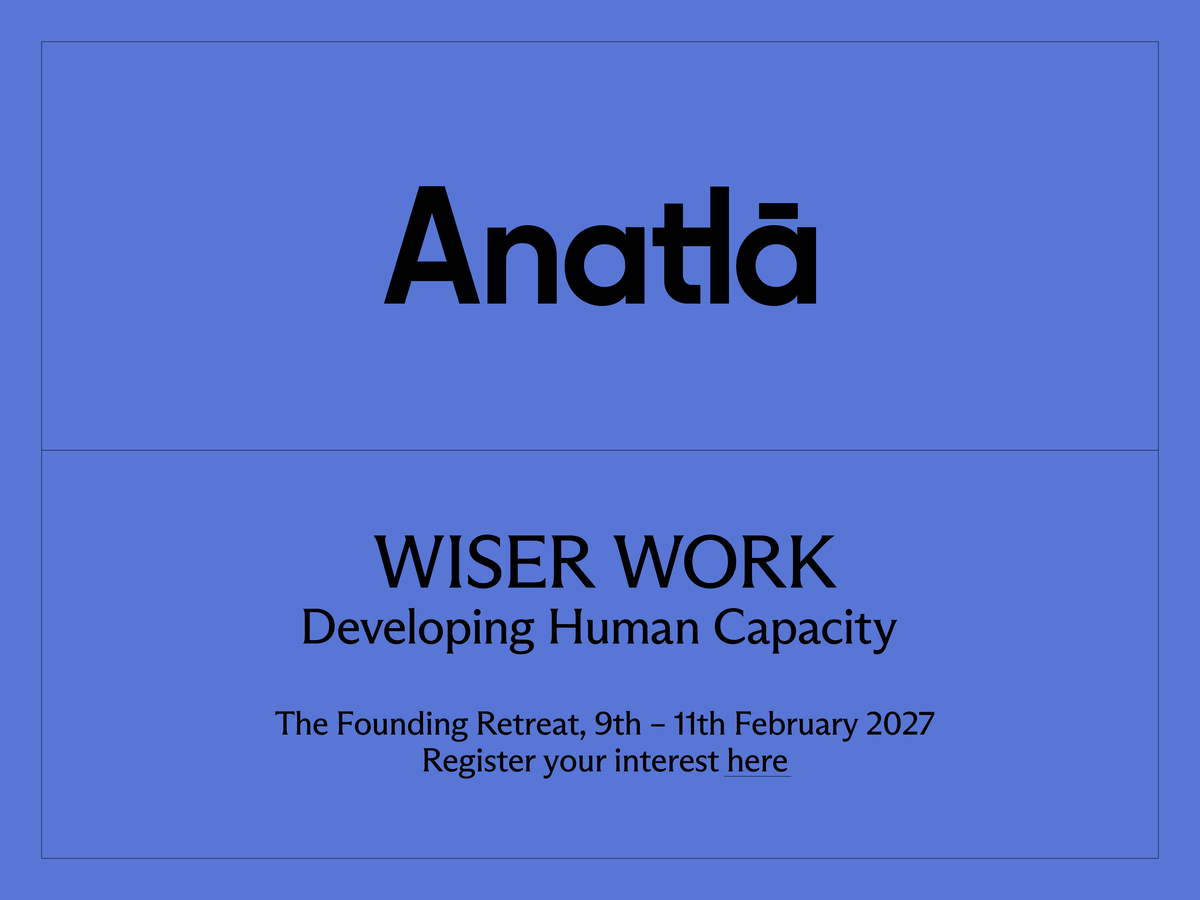
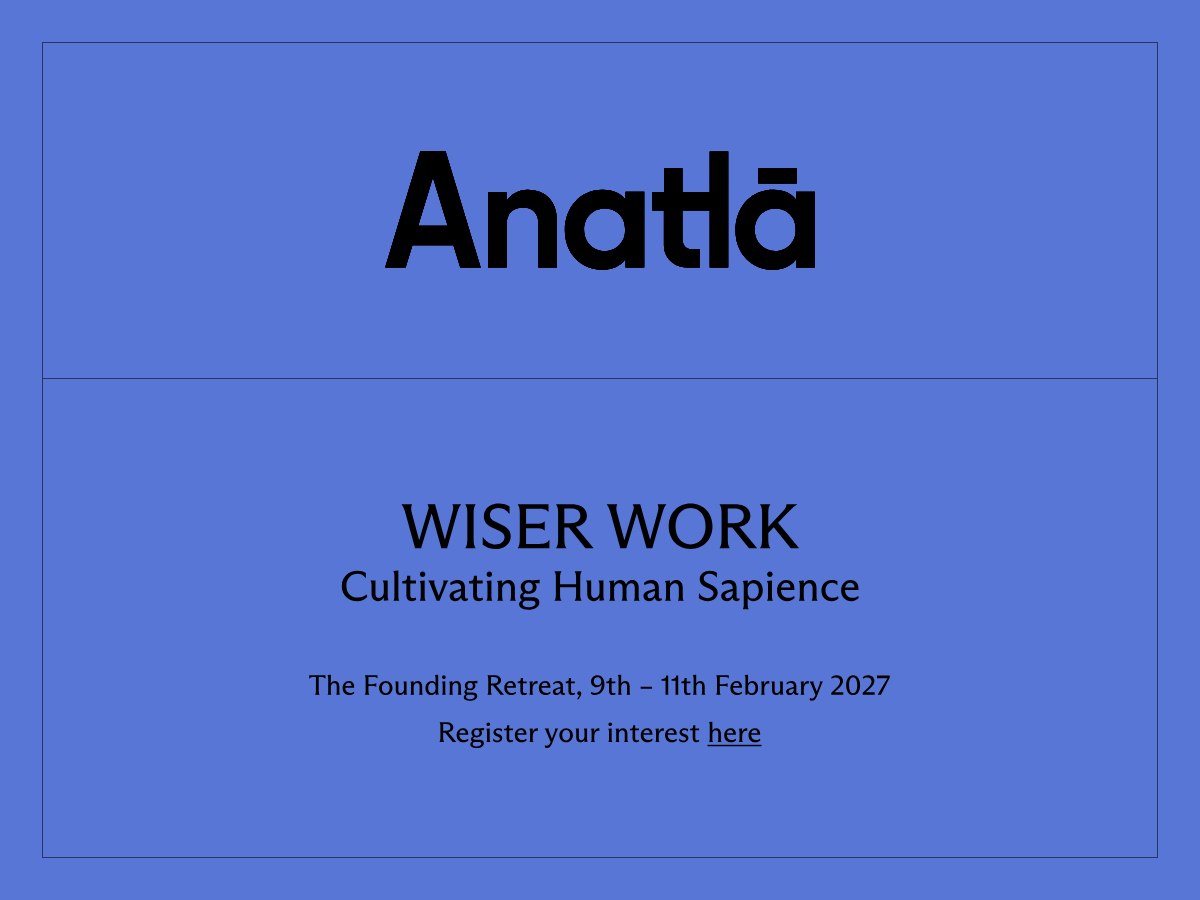
Strapline: Cultivating Human Sapience under Wiser Work
Regenerates the share image from the page so it matches.

Changed region(s): [[0.2467, 0.56, 0.74, 0.7156], [0.2158, 0.7467, 0.7708, 0.8711], [0.3083, 0.1556, 0.6783, 0.3422]]

diff --git a/index.html b/index.html
@@ -4,11 +4,11 @@
   <meta charset="utf-8">
   <meta name="viewport" content="width=device-width, initial-scale=1">
   <title>Anatla — Wiser Work</title>
-  <meta name="description" content="Anatla. Wiser Work: developing human capacity. The Founding Retreat, 9th–11th February 2027. Register your interest.">
+  <meta name="description" content="Anatla. Wiser Work: cultivating human sapience. The Founding Retreat, 9th–11th February 2027. Register your interest.">
   <link rel="canonical" href="https://anatla.com/">
   <link rel="icon" href="assets/favicon.svg" type="image/svg+xml">
   <meta property="og:title" content="Anatla — Wiser Work">
-  <meta property="og:description" content="Developing Human Capacity. The Founding Retreat, 9th–11th February 2027.">
+  <meta property="og:description" content="Cultivating Human Sapience. The Founding Retreat, 9th–11th February 2027.">
   <meta property="og:image" content="https://anatla.com/assets/og.png">
   <meta property="og:url" content="https://anatla.com/">
   <meta name="twitter:card" content="summary_large_image">
@@ -24,12 +24,12 @@
     <section class="panel panel--copy">
       <!-- Visually hidden copy for search engines and screen readers; the visible text is SVG artwork -->
       <div class="sr-only">
-        <p>Wiser Work. Developing Human Capacity.</p>
+        <p>Wiser Work. Cultivating Human Sapience.</p>
         <p>The Founding Retreat, 9th – 11th February 2027. Register your interest at shona@anatla.com.</p>
       </div>
       <!-- text:start (generated by tools/render_text.py) -->
       <svg class="t t--headline" viewBox="-20 -984 6318 1273" role="img" aria-label="WISER WORK" fill="currentColor"><path d="M70 -539 218 0H313L477 -546H482L633 0H724L878 -543C896 -607 911 -650 945 -691V-695H809V-691C828 -651 821 -611 803 -544L692 -141H687L533 -695H416L434 -641L285 -135H280L171 -542C154 -606 148 -647 168 -691V-695H5V-691C36 -649 52 -605 70 -539ZM1044 -541V-154C1044 -80 1038 -40 1013 -4V0H1174V-4C1149 -40 1143 -80 1143 -154V-541C1143 -614 1149 -656 1174 -691V-695H1013V-691C1038 -656 1044 -614 1044 -541ZM1493 12C1626 12 1730 -71 1730 -191C1730 -277 1679 -330 1587 -372L1489 -417C1424 -446 1401 -481 1401 -525C1401 -597 1461 -637 1539 -637C1604 -637 1667 -607 1706 -545H1711V-660C1672 -686 1609 -707 1539 -707C1402 -707 1304 -618 1304 -507C1304 -430 1347 -366 1442 -323L1539 -280C1603 -251 1632 -222 1632 -173C1632 -99 1566 -59 1491 -59C1416 -59 1346 -96 1292 -174H1287V-55C1343 -12 1418 12 1493 12ZM1873 -541V-154C1873 -80 1867 -40 1842 -4V0H2341V-130H2335C2308 -82 2261 -69 2183 -69H1972V-318H2124C2203 -318 2238 -308 2262 -281H2267V-423H2262C2237 -397 2203 -386 2124 -386H1972V-626H2169C2256 -626 2297 -613 2322 -578H2327V-695H1842V-691C1867 -656 1873 -614 1873 -541ZM2479 -541V-154C2479 -80 2473 -40 2448 -4V0H2608V-4C2583 -40 2577 -80 2577 -154V-328H2648L2912 0H3038V-2L2759 -338C2869 -358 2934 -427 2934 -514C2934 -622 2843 -695 2691 -695H2448V-691C2473 -656 2479 -614 2479 -541ZM2673 -396H2577V-628H2674C2776 -628 2830 -589 2830 -513C2830 -441 2776 -396 2673 -396ZM3314 -539 3462 0H3557L3721 -546H3726L3877 0H3968L4122 -543C4140 -607 4155 -650 4189 -691V-695H4053V-691C4072 -651 4065 -611 4047 -544L3936 -141H3931L3777 -695H3660L3678 -641L3529 -135H3524L3415 -542C3398 -606 3392 -647 3412 -691V-695H3249V-691C3280 -649 3296 -605 3314 -539ZM4573 12C4777 12 4919 -140 4919 -347C4919 -554 4778 -707 4573 -707C4370 -707 4227 -554 4227 -347C4227 -140 4370 12 4573 12ZM4573 -60C4431 -60 4335 -176 4335 -347C4335 -518 4431 -636 4573 -636C4715 -636 4810 -518 4810 -347C4810 -176 4715 -60 4573 -60ZM5063 -541V-154C5063 -80 5057 -40 5032 -4V0H5192V-4C5167 -40 5161 -80 5161 -154V-328H5232L5496 0H5622V-2L5343 -338C5453 -358 5518 -427 5518 -514C5518 -622 5427 -695 5275 -695H5032V-691C5057 -656 5063 -614 5063 -541ZM5257 -396H5161V-628H5258C5360 -628 5414 -589 5414 -513C5414 -441 5360 -396 5257 -396ZM5703 -541V-154C5703 -80 5697 -40 5672 -4V0H5832V-4C5807 -40 5801 -80 5801 -154V-241L5888 -332L6156 0H6286V-3L5955 -403L6098 -552C6157 -613 6197 -654 6257 -691V-695H6088V-691C6088 -656 6071 -625 6023 -574L5806 -343H5801V-541C5801 -614 5807 -656 5832 -691V-695H5672V-691C5697 -656 5703 -614 5703 -541Z"/></svg>
-      <svg class="t t--strap" viewBox="-20 -984 12461 1273" role="img" aria-label="Developing Human Capacity" fill="currentColor"><path d="M98 -541V-154C98 -80 92 -40 67 -4V0H321C546 0 695 -140 695 -348C695 -555 546 -695 321 -695H67V-691C92 -656 98 -614 98 -541ZM298 -67H197V-628H298C472 -628 587 -536 587 -348C587 -160 472 -67 298 -67ZM1024 12C1094 12 1151 -14 1198 -62L1187 -111C1143 -81 1101 -66 1048 -66C947 -66 878 -131 874 -250H1192V-288C1192 -417 1112 -486 1003 -486C876 -486 782 -381 782 -240C782 -86 887 12 1024 12ZM878 -309C890 -382 931 -425 997 -425C1057 -425 1097 -382 1100 -309ZM1299 -354 1437 0H1507L1647 -346C1670 -404 1684 -439 1713 -470V-474H1591V-470C1604 -438 1597 -402 1576 -347L1489 -122H1484L1399 -352C1380 -403 1373 -437 1389 -470V-474H1240V-470C1267 -437 1280 -403 1299 -354ZM1990 12C2060 12 2117 -14 2164 -62L2153 -111C2109 -81 2067 -66 2014 -66C1913 -66 1844 -131 1840 -250H2158V-288C2158 -417 2078 -486 1969 -486C1842 -486 1748 -381 1748 -240C1748 -86 1853 12 1990 12ZM1844 -309C1856 -382 1897 -425 1963 -425C2023 -425 2063 -382 2066 -309ZM2284 -587V-117C2284 -60 2281 -31 2263 -4V0H2398V-4C2380 -31 2377 -60 2377 -117V-713H2374L2259 -700V-695C2278 -669 2284 -642 2284 -587ZM2736 12C2872 12 2973 -92 2973 -238C2973 -384 2872 -486 2736 -486C2599 -486 2497 -383 2497 -238C2497 -92 2599 12 2736 12ZM2736 -55C2650 -55 2597 -125 2597 -238C2597 -349 2651 -419 2736 -419C2818 -419 2873 -351 2873 -238C2873 -124 2818 -55 2736 -55ZM3094 -351V83C3094 140 3091 169 3073 196V200H3212V196C3189 168 3187 140 3187 83V-50H3191C3222 -8 3272 12 3323 12C3443 12 3544 -87 3544 -244C3544 -392 3452 -486 3340 -486C3273 -486 3223 -453 3191 -403H3187V-477H3184L3069 -464V-459C3088 -433 3094 -406 3094 -351ZM3311 -50C3236 -50 3187 -107 3187 -213V-268C3187 -353 3244 -414 3314 -414C3396 -414 3449 -344 3449 -234C3449 -124 3393 -50 3311 -50ZM3760 -117V-477H3757L3642 -464V-459C3661 -433 3667 -406 3667 -351V-117C3667 -60 3664 -31 3646 -4V0H3781V-4C3763 -31 3760 -60 3760 -117ZM3711 -558C3747 -558 3776 -587 3776 -624C3776 -659 3747 -689 3711 -689C3675 -689 3646 -659 3646 -624C3646 -587 3675 -558 3711 -558ZM3920 -351V-117C3920 -60 3917 -31 3899 -4V0H4034V-4C4016 -31 4013 -60 4013 -117V-276C4013 -360 4073 -413 4132 -413C4185 -413 4222 -376 4222 -303V-117C4222 -60 4219 -31 4201 -4V0H4336V-4C4317 -32 4314 -60 4314 -117V-305C4314 -425 4246 -486 4157 -486C4100 -486 4053 -458 4018 -404H4013V-477H4010L3895 -464V-459C3914 -433 3920 -406 3920 -351ZM4628 214C4781 214 4893 145 4893 41C4893 -38 4828 -79 4721 -79H4573C4533 -79 4514 -96 4514 -119C4514 -144 4533 -161 4562 -174C4586 -166 4613 -161 4642 -161C4751 -161 4827 -230 4827 -323C4827 -361 4810 -392 4791 -408V-412H4899V-494H4896L4711 -475C4688 -483 4664 -486 4642 -486C4530 -486 4452 -420 4452 -323C4452 -273 4474 -230 4511 -201V-198C4460 -171 4437 -134 4437 -94C4437 -63 4454 -34 4485 -16V-13C4440 13 4413 48 4413 87C4413 157 4486 214 4628 214ZM4631 155C4544 155 4496 121 4496 71C4496 39 4521 14 4553 0H4712C4772 0 4801 19 4801 60C4801 120 4719 155 4631 155ZM4641 -219C4585 -219 4544 -258 4544 -323C4544 -389 4585 -429 4641 -429C4697 -429 4738 -389 4738 -323C4738 -258 4697 -219 4641 -219ZM5759 -541V-387H5381V-541C5381 -614 5387 -656 5412 -691V-695H5251V-691C5276 -656 5282 -614 5282 -541V-154C5282 -80 5276 -40 5251 -4V0H5412V-4C5387 -40 5381 -80 5381 -154V-318H5759V-154C5759 -80 5753 -40 5728 -4V0H5889V-4C5864 -40 5857 -80 5857 -154V-541C5857 -614 5864 -656 5889 -691V-695H5728V-691C5753 -656 5759 -614 5759 -541ZM6171 12C6230 12 6278 -19 6308 -69H6313V3H6315L6426 -11V-16C6408 -42 6405 -73 6405 -129V-474H6289V-470C6307 -443 6313 -410 6313 -354V-196C6313 -114 6256 -61 6198 -61C6149 -61 6116 -93 6116 -162V-474H6000V-470C6018 -442 6023 -409 6023 -354V-161C6023 -46 6090 12 6171 12ZM6565 -351V-117C6565 -60 6562 -31 6544 -4V0H6679V-4C6661 -31 6657 -60 6657 -117V-278C6657 -358 6714 -413 6772 -413C6829 -413 6857 -376 6857 -307V-117C6857 -60 6854 -31 6836 -4V0H6971V-4C6952 -32 6949 -60 6949 -117V-277C6949 -358 7004 -413 7061 -413C7113 -413 7145 -379 7145 -306V-118C7145 -60 7142 -31 7124 -4V0H7259V-4C7241 -31 7238 -60 7238 -118V-312C7238 -424 7172 -486 7088 -486C7027 -486 6975 -453 6941 -391H6936C6913 -454 6863 -486 6804 -486C6745 -486 6695 -458 6663 -403H6657V-477H6654L6540 -464V-459C6559 -433 6565 -406 6565 -351ZM7478 12C7533 12 7583 -14 7618 -70H7623V-68C7626 -20 7664 11 7711 11C7740 11 7763 4 7786 -13L7779 -59C7769 -55 7759 -52 7748 -52C7727 -52 7713 -64 7713 -94V-307C7713 -432 7637 -486 7537 -486C7471 -486 7407 -457 7362 -419L7373 -368C7418 -396 7466 -414 7513 -414C7574 -414 7622 -385 7622 -310V-279L7522 -253C7419 -226 7350 -189 7350 -108C7350 -37 7407 12 7478 12ZM7510 -58C7474 -58 7445 -80 7445 -119C7445 -162 7483 -181 7548 -202L7622 -226V-186C7622 -105 7560 -58 7510 -58ZM7884 -351V-117C7884 -60 7881 -31 7863 -4V0H7998V-4C7980 -31 7977 -60 7977 -117V-276C7977 -360 8037 -413 8096 -413C8149 -413 8186 -376 8186 -303V-117C8186 -60 8183 -31 8165 -4V0H8300V-4C8281 -32 8278 -60 8278 -117V-305C8278 -425 8210 -486 8121 -486C8064 -486 8017 -458 7982 -404H7977V-477H7974L7859 -464V-459C7878 -433 7884 -406 7884 -351ZM9021 12C9120 12 9197 -24 9262 -89L9250 -144C9184 -97 9118 -72 9043 -72C8890 -72 8769 -170 8769 -355C8769 -527 8886 -637 9032 -637C9108 -637 9179 -601 9224 -538H9229V-656C9173 -688 9108 -707 9026 -707C8839 -707 8661 -576 8661 -346C8661 -115 8831 12 9021 12ZM9453 12C9508 12 9558 -14 9593 -70H9598V-68C9601 -20 9639 11 9686 11C9715 11 9738 4 9761 -13L9754 -59C9744 -55 9734 -52 9723 -52C9702 -52 9688 -64 9688 -94V-307C9688 -432 9612 -486 9512 -486C9446 -486 9382 -457 9337 -419L9348 -368C9393 -396 9441 -414 9488 -414C9549 -414 9597 -385 9597 -310V-279L9497 -253C9394 -226 9325 -189 9325 -108C9325 -37 9382 12 9453 12ZM9485 -58C9449 -58 9420 -80 9420 -119C9420 -162 9458 -181 9523 -202L9597 -226V-186C9597 -105 9535 -58 9485 -58ZM9858 -351V83C9858 140 9855 169 9837 196V200H9976V196C9953 168 9951 140 9951 83V-50H9955C9986 -8 10036 12 10087 12C10207 12 10308 -87 10308 -244C10308 -392 10216 -486 10104 -486C10037 -486 9987 -453 9955 -403H9951V-477H9948L9833 -464V-459C9852 -433 9858 -406 9858 -351ZM10075 -50C10000 -50 9951 -107 9951 -213V-268C9951 -353 10008 -414 10078 -414C10160 -414 10213 -344 10213 -234C10213 -124 10157 -50 10075 -50ZM10515 12C10570 12 10620 -14 10655 -70H10660V-68C10663 -20 10701 11 10748 11C10777 11 10800 4 10823 -13L10816 -59C10806 -55 10796 -52 10785 -52C10764 -52 10750 -64 10750 -94V-307C10750 -432 10674 -486 10574 -486C10508 -486 10444 -457 10399 -419L10410 -368C10455 -396 10503 -414 10550 -414C10611 -414 10659 -385 10659 -310V-279L10559 -253C10456 -226 10387 -189 10387 -108C10387 -37 10444 12 10515 12ZM10547 -58C10511 -58 10482 -80 10482 -119C10482 -162 10520 -181 10585 -202L10659 -226V-186C10659 -105 10597 -58 10547 -58ZM11120 12C11182 12 11237 -13 11282 -57L11271 -105C11231 -80 11190 -66 11143 -66C11043 -66 10973 -134 10973 -247C10973 -350 11035 -422 11132 -422C11179 -422 11224 -397 11249 -363H11254V-456C11218 -475 11171 -486 11125 -486C10979 -486 10877 -379 10877 -235C10877 -94 10975 12 11120 12ZM11482 -117V-477H11479L11364 -464V-459C11383 -433 11389 -406 11389 -351V-117C11389 -60 11386 -31 11368 -4V0H11503V-4C11485 -31 11482 -60 11482 -117ZM11433 -558C11469 -558 11498 -587 11498 -624C11498 -659 11469 -689 11433 -689C11397 -689 11368 -659 11368 -624C11368 -587 11397 -558 11433 -558ZM11803 12C11841 12 11876 -1 11904 -22L11894 -72C11872 -61 11852 -57 11830 -57C11786 -57 11764 -80 11764 -131V-408H11898V-474H11764V-591H11690C11686 -485 11671 -468 11576 -466V-408H11672V-128C11672 -32 11726 12 11803 12ZM12012 212C12077 212 12143 182 12190 61L12350 -348C12371 -402 12386 -438 12415 -470V-474H12294V-470C12310 -438 12298 -399 12279 -350L12191 -121H12186L12098 -350C12078 -402 12065 -437 12082 -470V-474H11932V-470C11961 -437 11977 -401 11999 -348L12144 5L12134 31C12102 108 12061 129 12008 129C11985 129 11963 125 11943 117V197C11962 207 11986 212 12012 212Z"/></svg>
+      <svg class="t t--strap" viewBox="-20 -984 12334 1273" role="img" aria-label="Cultivating Human Sapience" fill="currentColor"><path d="M406 12C505 12 582 -24 647 -89L635 -144C569 -97 503 -72 428 -72C275 -72 154 -170 154 -355C154 -527 271 -637 417 -637C493 -637 564 -601 609 -538H614V-656C558 -688 493 -707 411 -707C224 -707 46 -576 46 -346C46 -115 216 12 406 12ZM896 12C955 12 1003 -19 1033 -69H1038V3H1040L1151 -11V-16C1133 -42 1130 -73 1130 -129V-474H1014V-470C1032 -443 1038 -410 1038 -354V-196C1038 -114 981 -61 923 -61C874 -61 841 -93 841 -162V-474H725V-470C743 -442 748 -409 748 -354V-161C748 -46 815 12 896 12ZM1288 -587V-117C1288 -60 1285 -31 1267 -4V0H1402V-4C1384 -31 1381 -60 1381 -117V-713H1378L1263 -700V-695C1282 -669 1288 -642 1288 -587ZM1702 12C1740 12 1775 -1 1803 -22L1793 -72C1771 -61 1751 -57 1729 -57C1685 -57 1663 -80 1663 -131V-408H1797V-474H1663V-591H1589C1585 -485 1570 -468 1475 -466V-408H1571V-128C1571 -32 1625 12 1702 12ZM2003 -117V-477H2000L1885 -464V-459C1904 -433 1910 -406 1910 -351V-117C1910 -60 1907 -31 1889 -4V0H2024V-4C2006 -31 2003 -60 2003 -117ZM1954 -558C1990 -558 2019 -587 2019 -624C2019 -659 1990 -689 1954 -689C1918 -689 1889 -659 1889 -624C1889 -587 1918 -558 1954 -558ZM2148 -354 2286 0H2356L2496 -346C2519 -404 2533 -439 2562 -470V-474H2440V-470C2453 -438 2446 -402 2425 -347L2338 -122H2333L2248 -352C2229 -403 2222 -437 2238 -470V-474H2089V-470C2116 -437 2129 -403 2148 -354ZM2720 12C2775 12 2825 -14 2860 -70H2865V-68C2868 -20 2906 11 2953 11C2982 11 3005 4 3028 -13L3021 -59C3011 -55 3001 -52 2990 -52C2969 -52 2955 -64 2955 -94V-307C2955 -432 2879 -486 2779 -486C2713 -486 2649 -457 2604 -419L2615 -368C2660 -396 2708 -414 2755 -414C2816 -414 2864 -385 2864 -310V-279L2764 -253C2661 -226 2592 -189 2592 -108C2592 -37 2649 12 2720 12ZM2752 -58C2716 -58 2687 -80 2687 -119C2687 -162 2725 -181 2790 -202L2864 -226V-186C2864 -105 2802 -58 2752 -58ZM3278 12C3316 12 3351 -1 3379 -22L3369 -72C3347 -61 3327 -57 3305 -57C3261 -57 3239 -80 3239 -131V-408H3373V-474H3239V-591H3165C3161 -485 3146 -468 3051 -466V-408H3147V-128C3147 -32 3201 12 3278 12ZM3579 -117V-477H3576L3461 -464V-459C3480 -433 3486 -406 3486 -351V-117C3486 -60 3483 -31 3465 -4V0H3600V-4C3582 -31 3579 -60 3579 -117ZM3530 -558C3566 -558 3595 -587 3595 -624C3595 -659 3566 -689 3530 -689C3494 -689 3465 -659 3465 -624C3465 -587 3494 -558 3530 -558ZM3739 -351V-117C3739 -60 3736 -31 3718 -4V0H3853V-4C3835 -31 3832 -60 3832 -117V-276C3832 -360 3892 -413 3951 -413C4004 -413 4041 -376 4041 -303V-117C4041 -60 4038 -31 4020 -4V0H4155V-4C4136 -32 4133 -60 4133 -117V-305C4133 -425 4065 -486 3976 -486C3919 -486 3872 -458 3837 -404H3832V-477H3829L3714 -464V-459C3733 -433 3739 -406 3739 -351ZM4447 214C4600 214 4712 145 4712 41C4712 -38 4647 -79 4540 -79H4392C4352 -79 4333 -96 4333 -119C4333 -144 4352 -161 4381 -174C4405 -166 4432 -161 4461 -161C4570 -161 4646 -230 4646 -323C4646 -361 4629 -392 4610 -408V-412H4718V-494H4715L4530 -475C4507 -483 4483 -486 4461 -486C4349 -486 4271 -420 4271 -323C4271 -273 4293 -230 4330 -201V-198C4279 -171 4256 -134 4256 -94C4256 -63 4273 -34 4304 -16V-13C4259 13 4232 48 4232 87C4232 157 4305 214 4447 214ZM4450 155C4363 155 4315 121 4315 71C4315 39 4340 14 4372 0H4531C4591 0 4620 19 4620 60C4620 120 4538 155 4450 155ZM4460 -219C4404 -219 4363 -258 4363 -323C4363 -389 4404 -429 4460 -429C4516 -429 4557 -389 4557 -323C4557 -258 4516 -219 4460 -219ZM5578 -541V-387H5200V-541C5200 -614 5206 -656 5231 -691V-695H5070V-691C5095 -656 5101 -614 5101 -541V-154C5101 -80 5095 -40 5070 -4V0H5231V-4C5206 -40 5200 -80 5200 -154V-318H5578V-154C5578 -80 5572 -40 5547 -4V0H5708V-4C5683 -40 5676 -80 5676 -154V-541C5676 -614 5683 -656 5708 -691V-695H5547V-691C5572 -656 5578 -614 5578 -541ZM5990 12C6049 12 6097 -19 6127 -69H6132V3H6134L6245 -11V-16C6227 -42 6224 -73 6224 -129V-474H6108V-470C6126 -443 6132 -410 6132 -354V-196C6132 -114 6075 -61 6017 -61C5968 -61 5935 -93 5935 -162V-474H5819V-470C5837 -442 5842 -409 5842 -354V-161C5842 -46 5909 12 5990 12ZM6384 -351V-117C6384 -60 6381 -31 6363 -4V0H6498V-4C6480 -31 6476 -60 6476 -117V-278C6476 -358 6533 -413 6591 -413C6648 -413 6676 -376 6676 -307V-117C6676 -60 6673 -31 6655 -4V0H6790V-4C6771 -32 6768 -60 6768 -117V-277C6768 -358 6823 -413 6880 -413C6932 -413 6964 -379 6964 -306V-118C6964 -60 6961 -31 6943 -4V0H7078V-4C7060 -31 7057 -60 7057 -118V-312C7057 -424 6991 -486 6907 -486C6846 -486 6794 -453 6760 -391H6755C6732 -454 6682 -486 6623 -486C6564 -486 6514 -458 6482 -403H6476V-477H6473L6359 -464V-459C6378 -433 6384 -406 6384 -351ZM7297 12C7352 12 7402 -14 7437 -70H7442V-68C7445 -20 7483 11 7530 11C7559 11 7582 4 7605 -13L7598 -59C7588 -55 7578 -52 7567 -52C7546 -52 7532 -64 7532 -94V-307C7532 -432 7456 -486 7356 -486C7290 -486 7226 -457 7181 -419L7192 -368C7237 -396 7285 -414 7332 -414C7393 -414 7441 -385 7441 -310V-279L7341 -253C7238 -226 7169 -189 7169 -108C7169 -37 7226 12 7297 12ZM7329 -58C7293 -58 7264 -80 7264 -119C7264 -162 7302 -181 7367 -202L7441 -226V-186C7441 -105 7379 -58 7329 -58ZM7703 -351V-117C7703 -60 7700 -31 7682 -4V0H7817V-4C7799 -31 7796 -60 7796 -117V-276C7796 -360 7856 -413 7915 -413C7968 -413 8005 -376 8005 -303V-117C8005 -60 8002 -31 7984 -4V0H8119V-4C8100 -32 8097 -60 8097 -117V-305C8097 -425 8029 -486 7940 -486C7883 -486 7836 -458 7801 -404H7796V-477H7793L7678 -464V-459C7697 -433 7703 -406 7703 -351ZM8686 12C8819 12 8923 -71 8923 -191C8923 -277 8872 -330 8780 -372L8682 -417C8617 -446 8594 -481 8594 -525C8594 -597 8654 -637 8732 -637C8797 -637 8860 -607 8899 -545H8904V-660C8865 -686 8802 -707 8732 -707C8595 -707 8497 -618 8497 -507C8497 -430 8540 -366 8635 -323L8732 -280C8796 -251 8825 -222 8825 -173C8825 -99 8759 -59 8684 -59C8609 -59 8539 -96 8485 -174H8480V-55C8536 -12 8611 12 8686 12ZM9133 12C9188 12 9238 -14 9273 -70H9278V-68C9281 -20 9319 11 9366 11C9395 11 9418 4 9441 -13L9434 -59C9424 -55 9414 -52 9403 -52C9382 -52 9368 -64 9368 -94V-307C9368 -432 9292 -486 9192 -486C9126 -486 9062 -457 9017 -419L9028 -368C9073 -396 9121 -414 9168 -414C9229 -414 9277 -385 9277 -310V-279L9177 -253C9074 -226 9005 -189 9005 -108C9005 -37 9062 12 9133 12ZM9165 -58C9129 -58 9100 -80 9100 -119C9100 -162 9138 -181 9203 -202L9277 -226V-186C9277 -105 9215 -58 9165 -58ZM9538 -351V83C9538 140 9535 169 9517 196V200H9656V196C9633 168 9631 140 9631 83V-50H9635C9666 -8 9716 12 9767 12C9887 12 9988 -87 9988 -244C9988 -392 9896 -486 9784 -486C9717 -486 9667 -453 9635 -403H9631V-477H9628L9513 -464V-459C9532 -433 9538 -406 9538 -351ZM9755 -50C9680 -50 9631 -107 9631 -213V-268C9631 -353 9688 -414 9758 -414C9840 -414 9893 -344 9893 -234C9893 -124 9837 -50 9755 -50ZM10204 -117V-477H10201L10086 -464V-459C10105 -433 10111 -406 10111 -351V-117C10111 -60 10108 -31 10090 -4V0H10225V-4C10207 -31 10204 -60 10204 -117ZM10155 -558C10191 -558 10220 -587 10220 -624C10220 -659 10191 -689 10155 -689C10119 -689 10090 -659 10090 -624C10090 -587 10119 -558 10155 -558ZM10566 12C10636 12 10693 -14 10740 -62L10729 -111C10685 -81 10643 -66 10590 -66C10489 -66 10420 -131 10416 -250H10734V-288C10734 -417 10654 -486 10545 -486C10418 -486 10324 -381 10324 -240C10324 -86 10429 12 10566 12ZM10420 -309C10432 -382 10473 -425 10539 -425C10599 -425 10639 -382 10642 -309ZM10862 -351V-117C10862 -60 10859 -31 10841 -4V0H10976V-4C10958 -31 10955 -60 10955 -117V-276C10955 -360 11015 -413 11074 -413C11127 -413 11164 -376 11164 -303V-117C11164 -60 11161 -31 11143 -4V0H11278V-4C11259 -32 11256 -60 11256 -117V-305C11256 -425 11188 -486 11099 -486C11042 -486 10995 -458 10960 -404H10955V-477H10952L10837 -464V-459C10856 -433 10862 -406 10862 -351ZM11615 12C11677 12 11732 -13 11777 -57L11766 -105C11726 -80 11685 -66 11638 -66C11538 -66 11468 -134 11468 -247C11468 -350 11530 -422 11627 -422C11674 -422 11719 -397 11744 -363H11749V-456C11713 -475 11666 -486 11620 -486C11474 -486 11372 -379 11372 -235C11372 -94 11470 12 11615 12ZM12079 12C12149 12 12206 -14 12253 -62L12242 -111C12198 -81 12156 -66 12103 -66C12002 -66 11933 -131 11929 -250H12247V-288C12247 -417 12167 -486 12058 -486C11931 -486 11837 -381 11837 -240C11837 -86 11942 12 12079 12ZM11933 -309C11945 -382 11986 -425 12052 -425C12112 -425 12152 -382 12155 -309Z"/></svg>
       <svg class="t t--details" viewBox="-20 -984 20657 1273" role="img" aria-label="The Founding Retreat, 9th – 11th February 2027" fill="currentColor"><path d="M258 -154C258 -80 251 -39 222 -4V0H392V-4C363 -39 356 -80 356 -154V-627H434C523 -627 567 -609 590 -569H595V-695H19V-569H25C48 -609 93 -627 181 -627H258ZM693 -587V-117C693 -60 690 -31 672 -4V0H807V-4C789 -31 786 -60 786 -117V-276C786 -360 846 -413 905 -413C958 -413 995 -376 995 -303V-117C995 -60 992 -31 974 -4V0H1109V-4C1090 -32 1087 -60 1087 -117V-305C1087 -425 1019 -486 930 -486C873 -486 826 -458 791 -404H786V-713H783L668 -700V-695C687 -669 693 -642 693 -587ZM1445 12C1515 12 1572 -14 1619 -62L1608 -111C1564 -81 1522 -66 1469 -66C1368 -66 1299 -131 1295 -250H1613V-288C1613 -417 1533 -486 1424 -486C1297 -486 1203 -381 1203 -240C1203 -86 1308 12 1445 12ZM1299 -309C1311 -382 1352 -425 1418 -425C1478 -425 1518 -382 1521 -309ZM2020 -541V-154C2020 -80 2014 -40 1989 -4V0H2154V-4C2125 -39 2119 -80 2119 -154V-308H2253C2332 -308 2372 -297 2390 -272H2396V-413H2390C2372 -387 2332 -376 2253 -376H2119V-626H2280C2367 -626 2413 -612 2433 -578H2438V-695H1989V-691C2014 -656 2020 -614 2020 -541ZM2734 12C2870 12 2971 -92 2971 -238C2971 -384 2870 -486 2734 -486C2597 -486 2495 -383 2495 -238C2495 -92 2597 12 2734 12ZM2734 -55C2648 -55 2595 -125 2595 -238C2595 -349 2649 -419 2734 -419C2816 -419 2871 -351 2871 -238C2871 -124 2816 -55 2734 -55ZM3235 12C3294 12 3342 -19 3372 -69H3377V3H3379L3490 -11V-16C3472 -42 3469 -73 3469 -129V-474H3353V-470C3371 -443 3377 -410 3377 -354V-196C3377 -114 3320 -61 3262 -61C3213 -61 3180 -93 3180 -162V-474H3064V-470C3082 -442 3087 -409 3087 -354V-161C3087 -46 3154 12 3235 12ZM3629 -351V-117C3629 -60 3626 -31 3608 -4V0H3743V-4C3725 -31 3722 -60 3722 -117V-276C3722 -360 3782 -413 3841 -413C3894 -413 3931 -376 3931 -303V-117C3931 -60 3928 -31 3910 -4V0H4045V-4C4026 -32 4023 -60 4023 -117V-305C4023 -425 3955 -486 3866 -486C3809 -486 3762 -458 3727 -404H3722V-477H3719L3604 -464V-459C3623 -433 3629 -406 3629 -351ZM4344 12C4405 12 4458 -16 4492 -71H4498V3H4501L4612 -11V-16C4593 -43 4590 -70 4590 -126V-713H4587L4472 -700V-695C4491 -669 4498 -642 4498 -587V-426H4492C4463 -463 4417 -486 4361 -486C4238 -486 4140 -383 4140 -231C4140 -79 4234 12 4344 12ZM4371 -60C4291 -60 4235 -128 4235 -241C4235 -351 4291 -424 4375 -424C4451 -424 4498 -362 4498 -265V-206C4498 -124 4443 -60 4371 -60ZM4842 -117V-477H4839L4724 -464V-459C4743 -433 4749 -406 4749 -351V-117C4749 -60 4746 -31 4728 -4V0H4863V-4C4845 -31 4842 -60 4842 -117ZM4793 -558C4829 -558 4858 -587 4858 -624C4858 -659 4829 -689 4793 -689C4757 -689 4728 -659 4728 -624C4728 -587 4757 -558 4793 -558ZM5002 -351V-117C5002 -60 4999 -31 4981 -4V0H5116V-4C5098 -31 5095 -60 5095 -117V-276C5095 -360 5155 -413 5214 -413C5267 -413 5304 -376 5304 -303V-117C5304 -60 5301 -31 5283 -4V0H5418V-4C5399 -32 5396 -60 5396 -117V-305C5396 -425 5328 -486 5239 -486C5182 -486 5135 -458 5100 -404H5095V-477H5092L4977 -464V-459C4996 -433 5002 -406 5002 -351ZM5710 214C5863 214 5975 145 5975 41C5975 -38 5910 -79 5803 -79H5655C5615 -79 5596 -96 5596 -119C5596 -144 5615 -161 5644 -174C5668 -166 5695 -161 5724 -161C5833 -161 5909 -230 5909 -323C5909 -361 5892 -392 5873 -408V-412H5981V-494H5978L5793 -475C5770 -483 5746 -486 5724 -486C5612 -486 5534 -420 5534 -323C5534 -273 5556 -230 5593 -201V-198C5542 -171 5519 -134 5519 -94C5519 -63 5536 -34 5567 -16V-13C5522 13 5495 48 5495 87C5495 157 5568 214 5710 214ZM5713 155C5626 155 5578 121 5578 71C5578 39 5603 14 5635 0H5794C5854 0 5883 19 5883 60C5883 120 5801 155 5713 155ZM5723 -219C5667 -219 5626 -258 5626 -323C5626 -389 5667 -429 5723 -429C5779 -429 5820 -389 5820 -323C5820 -258 5779 -219 5723 -219ZM6364 -541V-154C6364 -80 6358 -40 6333 -4V0H6493V-4C6468 -40 6462 -80 6462 -154V-328H6533L6797 0H6923V-2L6644 -338C6754 -358 6819 -427 6819 -514C6819 -622 6728 -695 6576 -695H6333V-691C6358 -656 6364 -614 6364 -541ZM6558 -396H6462V-628H6559C6661 -628 6715 -589 6715 -513C6715 -441 6661 -396 6558 -396ZM7176 12C7246 12 7303 -14 7350 -62L7339 -111C7295 -81 7253 -66 7200 -66C7099 -66 7030 -131 7026 -250H7344V-288C7344 -417 7264 -486 7155 -486C7028 -486 6934 -381 6934 -240C6934 -86 7039 12 7176 12ZM7030 -309C7042 -382 7083 -425 7149 -425C7209 -425 7249 -382 7252 -309ZM7633 12C7671 12 7706 -1 7734 -22L7724 -72C7702 -61 7682 -57 7660 -57C7616 -57 7594 -80 7594 -131V-408H7728V-474H7594V-591H7520C7516 -485 7501 -468 7406 -466V-408H7502V-128C7502 -32 7556 12 7633 12ZM7841 -351V-117C7841 -60 7838 -31 7820 -4V0H7959V-4C7936 -32 7934 -60 7934 -117V-207C7934 -334 8003 -395 8074 -395C8088 -395 8100 -394 8113 -390V-482C8102 -485 8091 -486 8077 -486C8010 -486 7964 -444 7939 -357H7934V-477H7930L7816 -464V-459C7835 -433 7841 -406 7841 -351ZM8399 12C8469 12 8526 -14 8573 -62L8562 -111C8518 -81 8476 -66 8423 -66C8322 -66 8253 -131 8249 -250H8567V-288C8567 -417 8487 -486 8378 -486C8251 -486 8157 -381 8157 -240C8157 -86 8262 12 8399 12ZM8253 -309C8265 -382 8306 -425 8372 -425C8432 -425 8472 -382 8475 -309ZM8779 12C8834 12 8884 -14 8919 -70H8924V-68C8927 -20 8965 11 9012 11C9041 11 9064 4 9087 -13L9080 -59C9070 -55 9060 -52 9049 -52C9028 -52 9014 -64 9014 -94V-307C9014 -432 8938 -486 8838 -486C8772 -486 8708 -457 8663 -419L8674 -368C8719 -396 8767 -414 8814 -414C8875 -414 8923 -385 8923 -310V-279L8823 -253C8720 -226 8651 -189 8651 -108C8651 -37 8708 12 8779 12ZM8811 -58C8775 -58 8746 -80 8746 -119C8746 -162 8784 -181 8849 -202L8923 -226V-186C8923 -105 8861 -58 8811 -58ZM9337 12C9375 12 9410 -1 9438 -22L9428 -72C9406 -61 9386 -57 9364 -57C9320 -57 9298 -80 9298 -131V-408H9432V-474H9298V-591H9224C9220 -485 9205 -468 9110 -466V-408H9206V-128C9206 -32 9260 12 9337 12ZM9599 12 9515 161H9569L9634 41C9652 7 9662 -16 9662 -46C9662 -91 9630 -124 9587 -124C9549 -124 9518 -95 9518 -55C9518 -14 9548 15 9599 12ZM10152 7C10278 7 10371 -58 10426 -150C10493 -263 10499 -431 10451 -544C10411 -638 10335 -692 10233 -692C10106 -692 10006 -601 10006 -472C10006 -346 10098 -268 10203 -268C10285 -268 10348 -310 10376 -367H10381C10384 -182 10296 -65 10137 -65C10088 -65 10044 -77 10010 -95L10002 -36C10043 -10 10093 7 10152 7ZM10236 -341C10160 -341 10107 -396 10107 -482C10107 -570 10162 -625 10239 -625C10318 -625 10370 -560 10370 -479V-474C10370 -397 10308 -341 10236 -341ZM10776 12C10814 12 10849 -1 10877 -22L10867 -72C10845 -61 10825 -57 10803 -57C10759 -57 10737 -80 10737 -131V-408H10871V-474H10737V-591H10663C10659 -485 10644 -468 10549 -466V-408H10645V-128C10645 -32 10699 12 10776 12ZM10982 -587V-117C10982 -60 10979 -31 10961 -4V0H11096V-4C11078 -31 11075 -60 11075 -117V-276C11075 -360 11135 -413 11194 -413C11247 -413 11284 -376 11284 -303V-117C11284 -60 11281 -31 11263 -4V0H11398V-4C11379 -32 11376 -60 11376 -117V-305C11376 -425 11308 -486 11219 -486C11162 -486 11115 -458 11080 -404H11075V-713H11072L10957 -700V-695C10976 -669 10982 -642 10982 -587ZM12170 -214H11764V-282H12170ZM12647 0H12742V-680H12671C12663 -587 12620 -558 12505 -553V-496H12647ZM13002 0H13097V-680H13026C13018 -587 12975 -558 12860 -553V-496H13002ZM13435 12C13473 12 13508 -1 13536 -22L13526 -72C13504 -61 13484 -57 13462 -57C13418 -57 13396 -80 13396 -131V-408H13530V-474H13396V-591H13322C13318 -485 13303 -468 13208 -466V-408H13304V-128C13304 -32 13358 12 13435 12ZM13641 -587V-117C13641 -60 13638 -31 13620 -4V0H13755V-4C13737 -31 13734 -60 13734 -117V-276C13734 -360 13794 -413 13853 -413C13906 -413 13943 -376 13943 -303V-117C13943 -60 13940 -31 13922 -4V0H14057V-4C14038 -32 14035 -60 14035 -117V-305C14035 -425 13967 -486 13878 -486C13821 -486 13774 -458 13739 -404H13734V-713H13731L13616 -700V-695C13635 -669 13641 -642 13641 -587ZM14470 -541V-154C14470 -80 14464 -40 14439 -4V0H14604V-4C14575 -39 14569 -80 14569 -154V-308H14703C14782 -308 14822 -297 14840 -272H14846V-413H14840C14822 -387 14782 -376 14703 -376H14569V-626H14730C14817 -626 14863 -612 14883 -578H14888V-695H14439V-691C14464 -656 14470 -614 14470 -541ZM15187 12C15257 12 15314 -14 15361 -62L15350 -111C15306 -81 15264 -66 15211 -66C15110 -66 15041 -131 15037 -250H15355V-288C15355 -417 15275 -486 15166 -486C15039 -486 14945 -381 14945 -240C14945 -86 15050 12 15187 12ZM15041 -309C15053 -382 15094 -425 15160 -425C15220 -425 15260 -382 15263 -309ZM15708 12C15827 12 15929 -87 15929 -244C15929 -395 15835 -486 15725 -486C15659 -486 15609 -454 15577 -403H15572V-713H15569L15454 -700V-695C15473 -669 15479 -642 15479 -587V0H15540L15561 -57H15566C15598 -11 15651 12 15708 12ZM15695 -50C15618 -50 15572 -112 15572 -211V-266C15572 -349 15624 -414 15699 -414C15782 -414 15834 -341 15834 -235C15834 -126 15780 -50 15695 -50ZM16052 -351V-117C16052 -60 16049 -31 16031 -4V0H16170V-4C16147 -32 16145 -60 16145 -117V-207C16145 -334 16214 -395 16285 -395C16299 -395 16311 -394 16324 -390V-482C16313 -485 16302 -486 16288 -486C16221 -486 16175 -444 16150 -357H16145V-477H16141L16027 -464V-459C16046 -433 16052 -406 16052 -351ZM16569 12C16628 12 16676 -19 16706 -69H16711V3H16713L16824 -11V-16C16806 -42 16803 -73 16803 -129V-474H16687V-470C16705 -443 16711 -410 16711 -354V-196C16711 -114 16654 -61 16596 -61C16547 -61 16514 -93 16514 -162V-474H16398V-470C16416 -442 16421 -409 16421 -354V-161C16421 -46 16488 12 16569 12ZM17047 12C17102 12 17152 -14 17187 -70H17192V-68C17195 -20 17233 11 17280 11C17309 11 17332 4 17355 -13L17348 -59C17338 -55 17328 -52 17317 -52C17296 -52 17282 -64 17282 -94V-307C17282 -432 17206 -486 17106 -486C17040 -486 16976 -457 16931 -419L16942 -368C16987 -396 17035 -414 17082 -414C17143 -414 17191 -385 17191 -310V-279L17091 -253C16988 -226 16919 -189 16919 -108C16919 -37 16976 12 17047 12ZM17079 -58C17043 -58 17014 -80 17014 -119C17014 -162 17052 -181 17117 -202L17191 -226V-186C17191 -105 17129 -58 17079 -58ZM17453 -351V-117C17453 -60 17450 -31 17432 -4V0H17571V-4C17548 -32 17546 -60 17546 -117V-207C17546 -334 17615 -395 17686 -395C17700 -395 17712 -394 17725 -390V-482C17714 -485 17703 -486 17689 -486C17622 -486 17576 -444 17551 -357H17546V-477H17542L17428 -464V-459C17447 -433 17453 -406 17453 -351ZM17829 212C17894 212 17960 182 18007 61L18167 -348C18188 -402 18203 -438 18232 -470V-474H18111V-470C18127 -438 18115 -399 18096 -350L18008 -121H18003L17915 -350C17895 -402 17882 -437 17899 -470V-474H17749V-470C17778 -437 17794 -401 17816 -348L17961 5L17951 31C17919 108 17878 129 17825 129C17802 129 17780 125 17760 117V197C17779 207 17803 212 17829 212ZM18521 0H18945V-90H18642V-95L18752 -198C18856 -295 18936 -380 18936 -488C18936 -608 18844 -692 18707 -692C18631 -692 18565 -662 18523 -618L18536 -565C18570 -589 18615 -611 18677 -611C18768 -611 18835 -562 18835 -470C18835 -377 18767 -307 18681 -224L18521 -70ZM19295 12C19444 12 19543 -125 19543 -340C19543 -553 19444 -692 19295 -692C19147 -692 19048 -553 19048 -340C19048 -125 19147 12 19295 12ZM19295 -59C19203 -59 19151 -159 19151 -340C19151 -520 19204 -622 19295 -622C19386 -622 19440 -520 19440 -340C19440 -160 19386 -59 19295 -59ZM19634 0H20058V-90H19755V-95L19865 -198C19969 -295 20049 -380 20049 -488C20049 -608 19957 -692 19820 -692C19744 -692 19678 -662 19636 -618L19649 -565C19683 -589 19728 -611 19790 -611C19881 -611 19948 -562 19948 -470C19948 -377 19880 -307 19794 -224L19634 -70ZM20280 0 20593 -610V-680H20141V-589H20510V-584L20166 -2V0Z"/></svg>
       <svg class="t t--register" viewBox="-20 -984 11433 1273" role="img" aria-label="Register your interest here" fill="currentColor"><path d="M98 -541V-154C98 -80 92 -40 67 -4V0H227V-4C202 -40 196 -80 196 -154V-328H267L531 0H657V-2L378 -338C488 -358 553 -427 553 -514C553 -622 462 -695 310 -695H67V-691C92 -656 98 -614 98 -541ZM292 -396H196V-628H293C395 -628 449 -589 449 -513C449 -441 395 -396 292 -396ZM910 12C980 12 1037 -14 1084 -62L1073 -111C1029 -81 987 -66 934 -66C833 -66 764 -131 760 -250H1078V-288C1078 -417 998 -486 889 -486C762 -486 668 -381 668 -240C668 -86 773 12 910 12ZM764 -309C776 -382 817 -425 883 -425C943 -425 983 -382 986 -309ZM1364 214C1517 214 1629 145 1629 41C1629 -38 1564 -79 1457 -79H1309C1269 -79 1250 -96 1250 -119C1250 -144 1269 -161 1298 -174C1322 -166 1349 -161 1378 -161C1487 -161 1563 -230 1563 -323C1563 -361 1546 -392 1527 -408V-412H1635V-494H1632L1447 -475C1424 -483 1400 -486 1378 -486C1266 -486 1188 -420 1188 -323C1188 -273 1210 -230 1247 -201V-198C1196 -171 1173 -134 1173 -94C1173 -63 1190 -34 1221 -16V-13C1176 13 1149 48 1149 87C1149 157 1222 214 1364 214ZM1367 155C1280 155 1232 121 1232 71C1232 39 1257 14 1289 0H1448C1508 0 1537 19 1537 60C1537 120 1455 155 1367 155ZM1377 -219C1321 -219 1280 -258 1280 -323C1280 -389 1321 -429 1377 -429C1433 -429 1474 -389 1474 -323C1474 -258 1433 -219 1377 -219ZM1832 -117V-477H1829L1714 -464V-459C1733 -433 1739 -406 1739 -351V-117C1739 -60 1736 -31 1718 -4V0H1853V-4C1835 -31 1832 -60 1832 -117ZM1783 -558C1819 -558 1848 -587 1848 -624C1848 -659 1819 -689 1783 -689C1747 -689 1718 -659 1718 -624C1718 -587 1747 -558 1783 -558ZM2099 12C2196 12 2274 -47 2274 -136C2274 -195 2243 -234 2183 -259L2108 -290C2063 -309 2045 -327 2045 -358C2045 -399 2087 -422 2137 -422C2185 -422 2228 -403 2257 -365H2262V-455C2228 -474 2181 -486 2136 -486C2036 -486 1963 -423 1963 -339C1963 -284 1993 -241 2056 -213L2125 -183C2170 -163 2191 -149 2191 -117C2191 -72 2144 -52 2097 -52C2046 -52 1996 -75 1959 -124H1953V-33C1993 -4 2046 12 2099 12ZM2558 12C2596 12 2631 -1 2659 -22L2649 -72C2627 -61 2607 -57 2585 -57C2541 -57 2519 -80 2519 -131V-408H2653V-474H2519V-591H2445C2441 -485 2426 -468 2331 -466V-408H2427V-128C2427 -32 2481 12 2558 12ZM2957 12C3027 12 3084 -14 3131 -62L3120 -111C3076 -81 3034 -66 2981 -66C2880 -66 2811 -131 2807 -250H3125V-288C3125 -417 3045 -486 2936 -486C2809 -486 2715 -381 2715 -240C2715 -86 2820 12 2957 12ZM2811 -309C2823 -382 2864 -425 2930 -425C2990 -425 3030 -382 3033 -309ZM3253 -351V-117C3253 -60 3250 -31 3232 -4V0H3371V-4C3348 -32 3346 -60 3346 -117V-207C3346 -334 3415 -395 3486 -395C3500 -395 3512 -394 3525 -390V-482C3514 -485 3503 -486 3489 -486C3422 -486 3376 -444 3351 -357H3346V-477H3342L3228 -464V-459C3247 -433 3253 -406 3253 -351ZM3843 212C3908 212 3974 182 4021 61L4181 -348C4202 -402 4217 -438 4246 -470V-474H4125V-470C4141 -438 4129 -399 4110 -350L4022 -121H4017L3929 -350C3909 -402 3896 -437 3913 -470V-474H3763V-470C3792 -437 3808 -401 3830 -348L3975 5L3965 31C3933 108 3892 129 3839 129C3816 129 3794 125 3774 117V197C3793 207 3817 212 3843 212ZM4522 12C4658 12 4759 -92 4759 -238C4759 -384 4658 -486 4522 -486C4385 -486 4283 -383 4283 -238C4283 -92 4385 12 4522 12ZM4522 -55C4436 -55 4383 -125 4383 -238C4383 -349 4437 -419 4522 -419C4604 -419 4659 -351 4659 -238C4659 -124 4604 -55 4522 -55ZM5023 12C5082 12 5130 -19 5160 -69H5165V3H5167L5278 -11V-16C5260 -42 5257 -73 5257 -129V-474H5141V-470C5159 -443 5165 -410 5165 -354V-196C5165 -114 5108 -61 5050 -61C5001 -61 4968 -93 4968 -162V-474H4852V-470C4870 -442 4875 -409 4875 -354V-161C4875 -46 4942 12 5023 12ZM5417 -351V-117C5417 -60 5414 -31 5396 -4V0H5535V-4C5512 -32 5510 -60 5510 -117V-207C5510 -334 5579 -395 5650 -395C5664 -395 5676 -394 5689 -390V-482C5678 -485 5667 -486 5653 -486C5586 -486 5540 -444 5515 -357H5510V-477H5506L5392 -464V-459C5411 -433 5417 -406 5417 -351ZM6122 -117V-477H6119L6004 -464V-459C6023 -433 6029 -406 6029 -351V-117C6029 -60 6026 -31 6008 -4V0H6143V-4C6125 -31 6122 -60 6122 -117ZM6073 -558C6109 -558 6138 -587 6138 -624C6138 -659 6109 -689 6073 -689C6037 -689 6008 -659 6008 -624C6008 -587 6037 -558 6073 -558ZM6282 -351V-117C6282 -60 6279 -31 6261 -4V0H6396V-4C6378 -31 6375 -60 6375 -117V-276C6375 -360 6435 -413 6494 -413C6547 -413 6584 -376 6584 -303V-117C6584 -60 6581 -31 6563 -4V0H6698V-4C6679 -32 6676 -60 6676 -117V-305C6676 -425 6608 -486 6519 -486C6462 -486 6415 -458 6380 -404H6375V-477H6372L6257 -464V-459C6276 -433 6282 -406 6282 -351ZM6989 12C7027 12 7062 -1 7090 -22L7080 -72C7058 -61 7038 -57 7016 -57C6972 -57 6950 -80 6950 -131V-408H7084V-474H6950V-591H6876C6872 -485 6857 -468 6762 -466V-408H6858V-128C6858 -32 6912 12 6989 12ZM7388 12C7458 12 7515 -14 7562 -62L7551 -111C7507 -81 7465 -66 7412 -66C7311 -66 7242 -131 7238 -250H7556V-288C7556 -417 7476 -486 7367 -486C7240 -486 7146 -381 7146 -240C7146 -86 7251 12 7388 12ZM7242 -309C7254 -382 7295 -425 7361 -425C7421 -425 7461 -382 7464 -309ZM7684 -351V-117C7684 -60 7681 -31 7663 -4V0H7802V-4C7779 -32 7777 -60 7777 -117V-207C7777 -334 7846 -395 7917 -395C7931 -395 7943 -394 7956 -390V-482C7945 -485 7934 -486 7920 -486C7853 -486 7807 -444 7782 -357H7777V-477H7773L7659 -464V-459C7678 -433 7684 -406 7684 -351ZM8242 12C8312 12 8369 -14 8416 -62L8405 -111C8361 -81 8319 -66 8266 -66C8165 -66 8096 -131 8092 -250H8410V-288C8410 -417 8330 -486 8221 -486C8094 -486 8000 -381 8000 -240C8000 -86 8105 12 8242 12ZM8096 -309C8108 -382 8149 -425 8215 -425C8275 -425 8315 -382 8318 -309ZM8645 12C8742 12 8820 -47 8820 -136C8820 -195 8789 -234 8729 -259L8654 -290C8609 -309 8591 -327 8591 -358C8591 -399 8633 -422 8683 -422C8731 -422 8774 -403 8803 -365H8808V-455C8774 -474 8727 -486 8682 -486C8582 -486 8509 -423 8509 -339C8509 -284 8539 -241 8602 -213L8671 -183C8716 -163 8737 -149 8737 -117C8737 -72 8690 -52 8643 -52C8592 -52 8542 -75 8505 -124H8499V-33C8539 -4 8592 12 8645 12ZM9104 12C9142 12 9177 -1 9205 -22L9195 -72C9173 -61 9153 -57 9131 -57C9087 -57 9065 -80 9065 -131V-408H9199V-474H9065V-591H8991C8987 -485 8972 -468 8877 -466V-408H8973V-128C8973 -32 9027 12 9104 12Z"/><a href="mailto:shona@anatla.com?subject=The%20Founding%20Retreat" aria-label="here: register your interest"><path d="M9572 -587V-117C9572 -60 9569 -31 9551 -4V0H9686V-4C9668 -31 9665 -60 9665 -117V-276C9665 -360 9725 -413 9784 -413C9837 -413 9874 -376 9874 -303V-117C9874 -60 9871 -31 9853 -4V0H9988V-4C9969 -32 9966 -60 9966 -117V-305C9966 -425 9898 -486 9809 -486C9752 -486 9705 -458 9670 -404H9665V-713H9662L9547 -700V-695C9566 -669 9572 -642 9572 -587ZM10324 12C10394 12 10451 -14 10498 -62L10487 -111C10443 -81 10401 -66 10348 -66C10247 -66 10178 -131 10174 -250H10492V-288C10492 -417 10412 -486 10303 -486C10176 -486 10082 -381 10082 -240C10082 -86 10187 12 10324 12ZM10178 -309C10190 -382 10231 -425 10297 -425C10357 -425 10397 -382 10400 -309ZM10620 -351V-117C10620 -60 10617 -31 10599 -4V0H10738V-4C10715 -32 10713 -60 10713 -117V-207C10713 -334 10782 -395 10853 -395C10867 -395 10879 -394 10892 -390V-482C10881 -485 10870 -486 10856 -486C10789 -486 10743 -444 10718 -357H10713V-477H10709L10595 -464V-459C10614 -433 10620 -406 10620 -351ZM11178 12C11248 12 11305 -14 11352 -62L11341 -111C11297 -81 11255 -66 11202 -66C11101 -66 11032 -131 11028 -250H11346V-288C11346 -417 11266 -486 11157 -486C11030 -486 10936 -381 10936 -240C10936 -86 11041 12 11178 12ZM11032 -309C11044 -382 11085 -425 11151 -425C11211 -425 11251 -382 11254 -309Z"/><rect class="ul" x="9493" y="100" width="1900" height="50"/></a></svg>
       <!-- text:end -->

diff --git a/style.css b/style.css
@@ -53,7 +53,7 @@ body {
 
 .t { display: block; height: auto; }
 .t--headline { width: min(calc(37.5% * var(--s)), 50vh); }
-.t--strap    { width: min(calc(49.5% * var(--s)), 66vh); margin-top: -0.8vh; }
+.t--strap    { width: min(calc(49% * var(--s)), 65.3vh); margin-top: -0.8vh; }
 .t--details  { width: min(calc(54.7% * var(--s)), 73vh); margin-top: 6vh; }
 .t--register { width: min(calc(30.5% * var(--s)), 41vh); margin-top: 1.2vh; }
 

diff --git a/tools/render_text.py b/tools/render_text.py
@@ -23,7 +23,7 @@ HTML = ROOT / "index.html"
 # (css class, text, {link word: href})
 COPY = [
     ("headline", "WISER WORK", None),
-    ("strap", "Developing Human Capacity", None),
+    ("strap", "Cultivating Human Sapience", None),
     ("details", "The Founding Retreat, 9th – 11th February 2027", None),
     ("register", "Register your interest here",
      ("here", "mailto:shona@anatla.com?subject=The%20Founding%20Retreat")),

diff --git a/README.md b/README.md
@@ -7,7 +7,7 @@ Holding page for Anatla. Plain HTML + CSS, no build step. Hosted on GitHub Pages
 - `index.html` – the page copy. The "Register your interest" link is the `mailto:` in the last paragraph; swap it for the form URL when the Brevo/MailerLite decision is made.
 - `style.css` – layout, colours and the SVG line widths. Brand colours: woad `#5876d5`, peach `#fc7e49`, sienna `#c04729`, ink `#000`.
 - `assets/logo.svg` – vector logo extracted from `Anatla_Logo_colour.pdf`. Uses `currentColor`, so recolour it with CSS.
-- `assets/og.png` – social share image (the designer's holding-page artwork).
+- `assets/og.png` – social share image: a 1200×900 headless-Chrome screenshot of `index.html`. Retake it when the copy changes.
 
 ## Fonts
 
